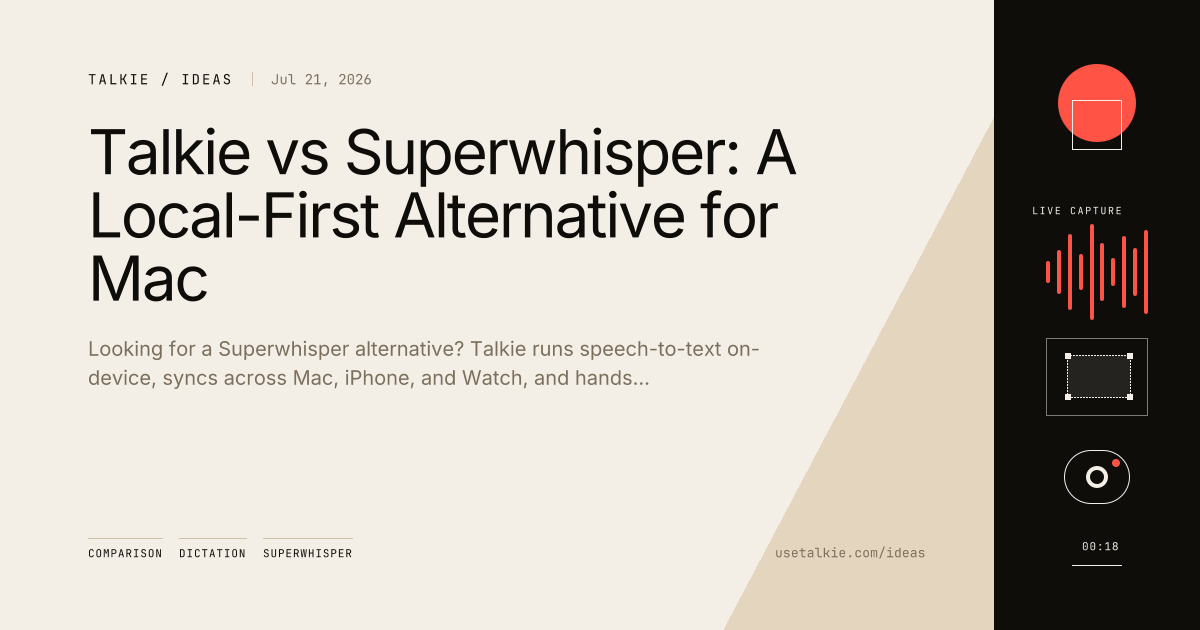
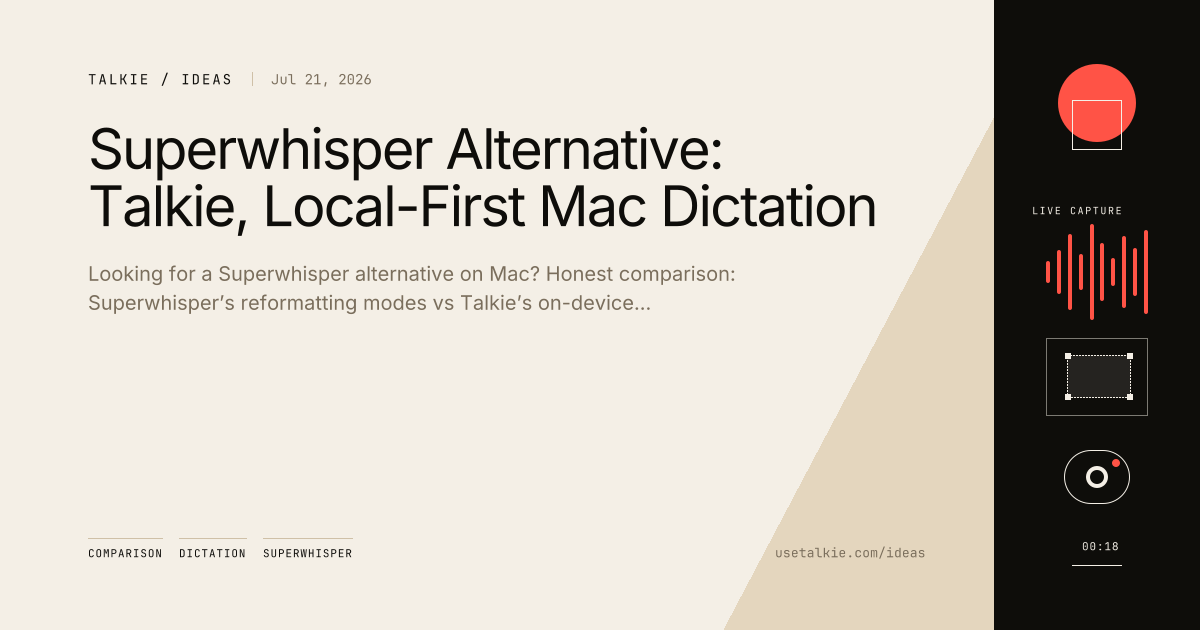
Expand SEO content: agents, mobile capture, Superwhisper alternative
Add indexable guides for voice-remote-for-agents and iPhone/Watch capture, retitle Superwhisper comparison for alternative intent, and link both from Mac/mobile plus sitemap.

Changed region(s): [[0.0617, 0.181, 0.74, 0.5127], [0.0617, 0.5429, 0.6475, 0.6333]]

diff --git a/components/MobilePage.jsx b/components/MobilePage.jsx
@@ -49,6 +49,12 @@ export default function MobilePage() {
               Talkie for iPhone and Apple Watch is free voice capture that syncs into your Mac library.
               Phone and Watch catch the thought. Mac is where you dictate, search, and run workflows.
             </p>
+            <p className="mt-4 max-w-2xl text-[13px] leading-relaxed text-ink-muted">
+              Guide:{' '}
+              <a href="/ideas/iphone-apple-watch-voice-capture/" className="underline decoration-edge underline-offset-2 hover:text-ink">iPhone & Apple Watch capture</a>
+              {' · '}
+              <a href="/ideas/voice-remote-for-agents/" className="underline decoration-edge underline-offset-2 hover:text-ink">Voice remote for agents</a>
+            </p>
 
             <div className="mt-8 flex flex-col gap-3 sm:flex-row sm:items-center">
               <TrackedAnchor

diff --git a/components/MacPage.jsx b/components/MacPage.jsx
@@ -64,6 +64,10 @@ export default function MacPage() {
             <a href="/ideas/dictate-into-cursor/" className="underline decoration-edge underline-offset-2 hover:text-ink">Dictate into Cursor</a>
             {' · '}
             <a href="/compare/best-dictation-apps-for-mac/" className="underline decoration-edge underline-offset-2 hover:text-ink">Best apps for Mac</a>
+            {' · '}
+            <a href="/ideas/voice-remote-for-agents/" className="underline decoration-edge underline-offset-2 hover:text-ink">Voice for agents</a>
+            {' · '}
+            <a href="/ideas/iphone-apple-watch-voice-capture/" className="underline decoration-edge underline-offset-2 hover:text-ink">iPhone & Watch</a>
           </p>
         </div>
       </section>

diff --git a/public/compare.md b/public/compare.md
@@ -9,9 +9,9 @@ Canonical page: https://usetalkie.com/compare/
 - [Aqua Voice Alternative: Talkie, a Local-First Dictation App for Mac](https://usetalkie.com/compare/aqua-voice/) — Looking for an Aqua Voice alternative? Talkie is on-device voice dictation for Mac, iPhone, and Apple Watch, with a CLI that pipes voice into agents.
 - [Best Dictation Apps for Mac in 2026](https://usetalkie.com/compare/best-dictation-apps-for-mac/) — Best dictation app for Mac in 2026? Honest roundup of speech to text tools — on-device vs cloud, pricing posture, and which fits: Superwhisper, Wispr Flow, MacWhisper, Talkie.
 - [DictaFlow alternative: Talkie for local-first dictation with a CLI](https://usetalkie.com/compare/dictaflow/) — A DictaFlow alternative for people who want dictation that stays on-device and exposes captures as structured data for scripts and AI agents.
+- [Superwhisper Alternative: Talkie, Local-First Mac Dictation](https://usetalkie.com/compare/superwhisper/) — Looking for a Superwhisper alternative on Mac? Honest comparison: Superwhisper’s reformatting modes vs Talkie’s on-device dictation, local library, and CLI for agents.
 - [Talkie vs Apple Dictation: When Built-In Isn't Enough](https://usetalkie.com/compare/apple-dictation/) — An honest Apple Dictation alternative comparison. Both work on-device. Talkie adds structured local storage, a programmable CLI, and dictation into AI agents.
 - [Talkie vs Dragon: A Mac Alternative After Dragon Left](https://usetalkie.com/compare/dragon/) — Looking for a Dragon dictation alternative for Mac? Dragon left the consumer Mac market. Talkie is an on-device, Mac-native option that also feeds your agents.
-- [Talkie vs Superwhisper: A Local-First Alternative for Mac](https://usetalkie.com/compare/superwhisper/) — Looking for a Superwhisper alternative? Talkie runs speech-to-text on-device, syncs across Mac, iPhone, and Watch, and hands voice to the CLI and agents.
 - [Talkie: A Local-First MacWhisper Alternative With a CLI](https://usetalkie.com/compare/macwhisper/) — Looking for a MacWhisper alternative? Talkie offers on-device voice dictation for Mac, iPhone, and Watch, with a CLI that turns captures into structured data.
 - [Talon Voice alternative for dictation that drives your agents](https://usetalkie.com/compare/talon/) — Looking for a Talon Voice alternative? Talkie is on-device Mac dictation that turns speech into structured captures you can pipe into Claude Code and agents.
 - [Wispr Flow Alternative: Talkie, a Local-First Mac Dictation App](https://usetalkie.com/compare/wispr-flow/) — Looking for a Wispr Flow alternative on Mac? Honest comparison: Wispr Flow’s cloud polish vs Talkie’s on-device dictation, local capture library, and CLI for agents.

diff --git a/public/compare/superwhisper.md b/public/compare/superwhisper.md
@@ -1,6 +1,6 @@
-# Talkie vs Superwhisper: A Local-First Alternative for Mac
+# Superwhisper Alternative: Talkie, Local-First Mac Dictation
 
-Looking for a Superwhisper alternative? Talkie runs speech-to-text on-device, syncs across Mac, iPhone, and Watch, and hands voice to the CLI and agents.
+Looking for a Superwhisper alternative on Mac? Honest comparison: Superwhisper’s reformatting modes vs Talkie’s on-device dictation, local library, and CLI for agents.
 
 - Canonical page: https://usetalkie.com/compare/superwhisper/
 - Author: Arach Tchoupani
@@ -52,4 +52,4 @@ You don't have to guess. Try both in your own workflow and see which one disappe
 
 And if the agents angle is what caught your eye, here's [how dictating to Claude Code works](/workflows/dictate-to-claude/), and [why Talkie ships a CLI](/ideas/why-talkie-has-a-cli/) in the first place.
 
-See also: [the best dictation apps for Mac, compared](/compare/best-dictation-apps-for-mac/).
+See also: [Mac dictation guide](/ideas/mac-dictation/), [the best dictation apps for Mac, compared](/compare/best-dictation-apps-for-mac/).
